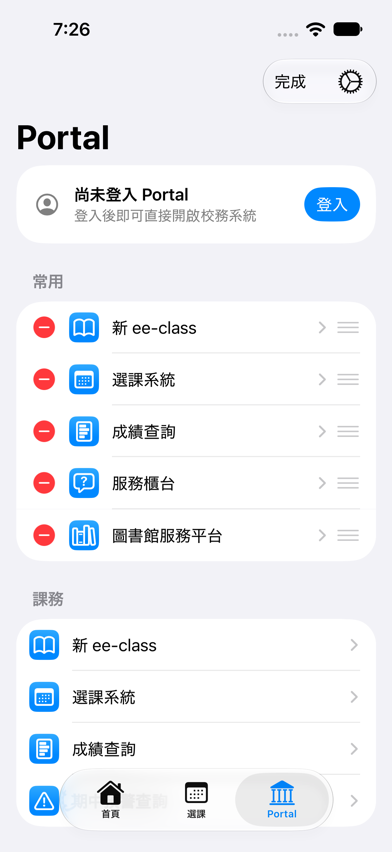
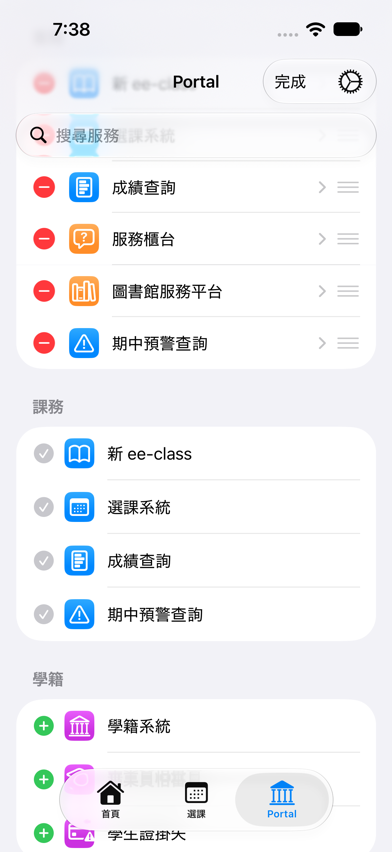
feat(portal): add services from edit mode with a + control
Editing the Portal tab only offered removing and reordering favorites.
Catalog rows now show an add control while editing: a green + on iOS
and an add button on Android, with a check for services already in
常用.

diff --git a/shared/src/commonMain/kotlin/org/mpc/presentation/PortalScreen.kt b/shared/src/commonMain/kotlin/org/mpc/presentation/PortalScreen.kt
@@ -16,9 +16,11 @@ import androidx.compose.foundation.shape.CircleShape
 import androidx.compose.foundation.shape.RoundedCornerShape
 import androidx.compose.material.icons.Icons
 import androidx.compose.material.icons.filled.AccountBalance
+import androidx.compose.material.icons.filled.AddCircle
 import androidx.compose.material.icons.filled.Apps
 import androidx.compose.material.icons.filled.Badge
 import androidx.compose.material.icons.filled.Book
+import androidx.compose.material.icons.filled.CheckCircle
 import androidx.compose.material.icons.filled.Close
 import androidx.compose.material.icons.filled.CreditCardOff
 import androidx.compose.material.icons.filled.Event
@@ -33,8 +35,6 @@ import androidx.compose.material.icons.filled.RequestQuote
 import androidx.compose.material.icons.filled.Savings
 import androidx.compose.material.icons.filled.School
 import androidx.compose.material.icons.filled.Search
-import androidx.compose.material.icons.filled.Star
-import androidx.compose.material.icons.filled.StarBorder
 import androidx.compose.material.icons.filled.SupportAgent
 import androidx.compose.material.icons.filled.WarningAmber
 import androidx.compose.material.icons.filled.Wifi
@@ -42,7 +42,6 @@ import androidx.compose.material.icons.filled.WorkspacePremium
 import androidx.compose.material.icons.filled.Workspaces
 import androidx.compose.material3.Icon
 import androidx.compose.material3.IconButton
-import androidx.compose.material3.IconToggleButton
 import androidx.compose.material3.ListItem
 import androidx.compose.material3.ListItemDefaults
 import androidx.compose.material3.MaterialTheme
@@ -152,7 +151,7 @@ private fun LazyListScope.favoritesSection(
     if (favorites.isEmpty()) {
         item(key = "favorites-empty") {
             Text(
-                text = "點「編輯」，再用星號把服務加到這裡",
+                text = "點「編輯」後按 ＋，即可把服務加入常用",
                 modifier = Modifier.padding(horizontal = 16.dp),
                 style = MaterialTheme.typography.bodyMedium,
                 color = MaterialTheme.colorScheme.onSurfaceVariant,
@@ -202,10 +201,10 @@ private fun LazyListScope.catalogSections(
                 onClick = { onOpenDestination(item.destination) }.takeUnless { isEditing },
                 trailingContent = if (isEditing) {
                     {
-                        FavoriteToggle(
+                        AddFavoriteButton(
                             label = item.label,
                             isFavorite = isFavorite,
-                            onToggle = { if (isFavorite) viewModel.removeFavorite(item.id) else viewModel.addFavorite(item.id) },
+                            onAdd = { viewModel.addFavorite(item.id) },
                         )
                     }
                 } else {
@@ -216,17 +215,18 @@ private fun LazyListScope.catalogSections(
     }
 }
 
+/** Adds a service to the favorites; one already there shows a check, and is removed from the favorites section. */
 @Composable
-private fun FavoriteToggle(
+private fun AddFavoriteButton(
     label: String,
     isFavorite: Boolean,
-    onToggle: () -> Unit,
+    onAdd: () -> Unit,
 ) {
-    IconToggleButton(checked = isFavorite, onCheckedChange = { onToggle() }) {
+    IconButton(onClick = onAdd, enabled = !isFavorite) {
         Icon(
-            imageVector = if (isFavorite) Icons.Default.Star else Icons.Default.StarBorder,
-            contentDescription = if (isFavorite) "從常用移除$label" else "加入常用：$label",
-            tint = if (isFavorite) MaterialTheme.colorScheme.primary else MaterialTheme.colorScheme.onSurfaceVariant,
+            imageVector = if (isFavorite) Icons.Default.CheckCircle else Icons.Default.AddCircle,
+            contentDescription = if (isFavorite) "已在常用：$label" else "加入常用：$label",
+            tint = if (isFavorite) MaterialTheme.colorScheme.outline else MaterialTheme.colorScheme.primary,
         )
     }
 }

diff --git a/iosApp/iosApp/presentation/PortalView.swift b/iosApp/iosApp/presentation/PortalView.swift
@@ -46,7 +46,7 @@ struct PortalView: View {
                     Text("常用")
                 } footer: {
                     if home.favorites.isEmpty {
-                        Text("長按或向右滑動服務，即可加入常用。")
+                        Text("點「編輯」後按 ＋，即可把服務加入常用。")
                     }
                 }
             }
@@ -54,7 +54,11 @@ struct PortalView: View {
             ForEach(home.sections, id: \.title) { section in
                 Section(section.title) {
                     ForEach(section.items, id: \.id) { item in
-                        shortcutRow(item, isFavorite: favoriteSet.contains(item.id))
+                        if editMode.isEditing {
+                            addFavoriteRow(item, isFavorite: favoriteSet.contains(item.id))
+                        } else {
+                            shortcutRow(item, isFavorite: favoriteSet.contains(item.id))
+                        }
                     }
                 }
             }
@@ -114,6 +118,28 @@ struct PortalView: View {
         .swipeActions(edge: .leading) {
             favoriteButton(item, isFavorite: isFavorite)
                 .tint(.yellow)
+        }
+    }
+
+    /// A catalog row while editing: a leading insert control, like the system's delete control on favorites.
+    private func addFavoriteRow(_ item: PortalShortcutItem, isFavorite: Bool) -> some View {
+        HStack(spacing: 12) {
+            Button {
+                withAnimation { bridge.addFavorite(id: item.id) }
+            } label: {
+                Image(systemName: isFavorite ? "checkmark.circle.fill" : "plus.circle.fill")
+                    .font(.title3)
+                    .symbolRenderingMode(.palette)
+                    .foregroundStyle(.white, isFavorite ? Color(.systemGray3) : .green)
+            }
+            .buttonStyle(.borderless)
+            .disabled(isFavorite)
+            .accessibilityLabel(isFavorite ? "已在常用" : "加入常用")
+            Label {
+                Text(item.label)
+            } icon: {
+                PortalShortcutIconView(icon: item.icon, tint: item.tint)
+            }
         }
     }
 
